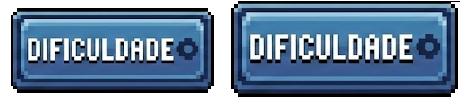
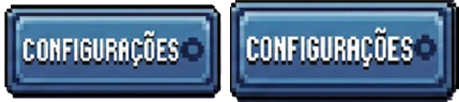
feat: improving the appearance of the ranking menu and efficiency.

diff --git a/Telas/Ranking.py b/Telas/Ranking.py
@@ -1,43 +1,119 @@
 from PPlay import sprite
 import config
+import sprites
 
-background = sprite.Sprite("images/backgrounds/background-tarde.png")
-background.set_position(0, 0)
 
 def para_segundos(t):
     minutos, segundos = map(int, t.split(":"))
     return minutos * 60 + segundos
 
-def play() :
+
+def draw_text_shadow(texto, x, y, tamanho, cor):
+    config.janela.draw_text(
+        texto, x + 2, y + 2,
+        tamanho=tamanho,
+        cor=(0, 0, 0),
+        fonte="Arial"
+    )
+
+    config.janela.draw_text(
+        texto, x, y,
+        tamanho=tamanho,
+        cor=cor,
+        fonte="Arial"
+    )
+
+
+def cor_posicao(pos):
+    if pos == 0:
+        return (255, 215, 0)
+    elif pos == 1:
+        return (192, 192, 192)
+    elif pos == 2:
+        return (205, 127, 50)
+
+    return (255, 255, 255)
+
+
+def carregar_recordes():
+    ranking = []
+
+    with open("recordes.txt", "r") as arquivo:
+        for linha in arquivo:
+            nome, tempo, data = linha.strip().split(" - ")
+
+            ranking.append({
+                "nome": nome,
+                "pontuacao": tempo,
+                "data": data.split()[0]  # só a data
+            })
+
+    ranking.sort(key=lambda x: para_segundos(x["pontuacao"]))
+
+    return ranking[:10]
+
+
+def play():
+
+    # Botando para carregar os recordes aqui pois dentro do while fica ineficiente.
+    top10 = carregar_recordes()
+
+    TABLE_WIDTH = 900
+
+    inicio_x = (config.janela.largura - TABLE_WIDTH) / 2
+
+    X_POS   = inicio_x
+    X_NOME  = inicio_x + 100
+    X_TEMPO = inicio_x + 420
+    X_DATA  = inicio_x + 650
+
+    titulo = "TOP 10 NITROAD"
+    tam_titulo = 50
+
+    # Aproximação da largura do texto (testei aqui e esse 0.8 deu bom)
+    largura_titulo = len(titulo) * (tam_titulo * 0.8)
+
+    x_titulo = config.janela.largura/2 - largura_titulo / 2
+
     while True:
-        background.draw()
 
-        with open('recordes.txt', 'r') as arquivo:
-            saida = []
-            for linha in arquivo:
-                nome, tempo, data = linha.strip().split(" - ")
-                saida.append({"nome": nome,"pontuacao": tempo,"data": data})
-
-            saida.sort(key=lambda x: para_segundos(x["pontuacao"]))
-
-            top10 = saida[:10]    
-            i = 0
-            for item in top10:
-                config.janela.draw_text(f"{i+1}", config.janela.largura * 1/10, config.janela.altura/5 + i * 50, tamanho=35, cor=(10, 10, 255), fonte="Arial")
-                config.janela.draw_text(f"{item['nome']}", config.janela.largura * 2/10 , config.janela.altura/5 + i * 50, tamanho=35, cor=(10, 10, 255), fonte="Arial")
-                config.janela.draw_text(f"{item['pontuacao']}", config.janela.largura * 4/10, config.janela.altura/5 + i * 50, tamanho=35, cor=(10, 10, 255), fonte="Arial")
-                config.janela.draw_text(f"{item['data']} ", config.janela.largura * 6/10, config.janela.altura/5 + i * 50, tamanho=35, cor=(10, 10, 255), fonte="Arial")
-                i+=1
-
-            config.janela.draw_text("#", config.janela.largura * 1/10, config.janela.altura/7 , tamanho=35, cor=(10, 10, 255), fonte="Arial")
-            config.janela.draw_text("NOME", config.janela.largura * 2/10 , config.janela.altura/7 , tamanho=35, cor=(10, 10, 255), fonte="Arial")
-            config.janela.draw_text("PONTOS", config.janela.largura * 4/10, config.janela.altura/7 , tamanho=35, cor=(10, 10, 255), fonte="Arial")
-            config.janela.draw_text("DATA", config.janela.largura * 6/10, config.janela.altura/7 , tamanho=35, cor=(10, 10, 255), fonte="Arial")
+        sprites.background_recordes.draw()
 
 
-        #Saída para o menu principal
-        if (config.janela.keyboard.key_down('ESC')):
-            config.Tela = 'Menu'
-            return 0
-        
+        draw_text_shadow(
+            titulo,
+            x_titulo,
+            30,  # mais próximo do topo
+            tam_titulo,
+            (255, 255, 0)
+        )
+
+        draw_text_shadow("#", X_POS, 120, 35, (255, 255, 255))
+        draw_text_shadow("NOME", X_NOME, 120, 35, (255, 255, 255))
+        draw_text_shadow("TEMPO", X_TEMPO, 120, 35, (255, 255, 255))
+        draw_text_shadow("DATA", X_DATA, 120, 35, (255, 255, 255))
+
+        for i, item in enumerate(top10):
+
+            y = 180 + i * 55
+
+            cor = cor_posicao(i)
+
+            draw_text_shadow(str(i + 1), X_POS, y, 35, cor)
+            draw_text_shadow(item["nome"], X_NOME, y, 35, cor)
+            draw_text_shadow(item["pontuacao"], X_TEMPO, y, 35, cor)
+            draw_text_shadow(item["data"], X_DATA, y, 35, cor)
+
+        draw_text_shadow(
+            "ESC - VOLTAR",
+            20,
+            config.janela.altura - 50,
+            25,
+            (255, 255, 255)
+        )
+
+        if config.janela.keyboard.key_down("ESC"):
+            config.Tela = "Menu"
+            return
+
         config.janela.update()